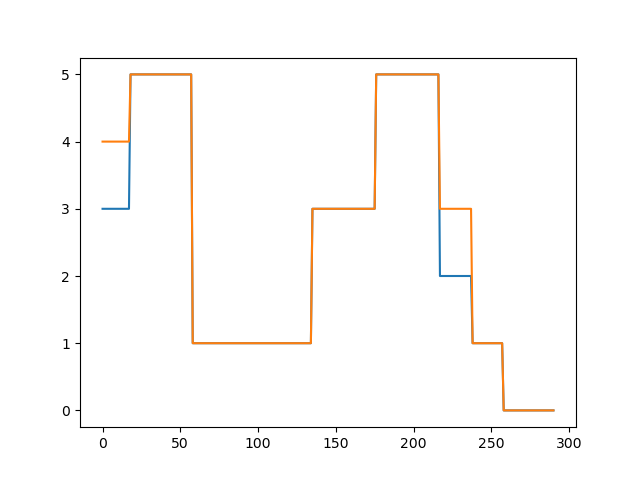
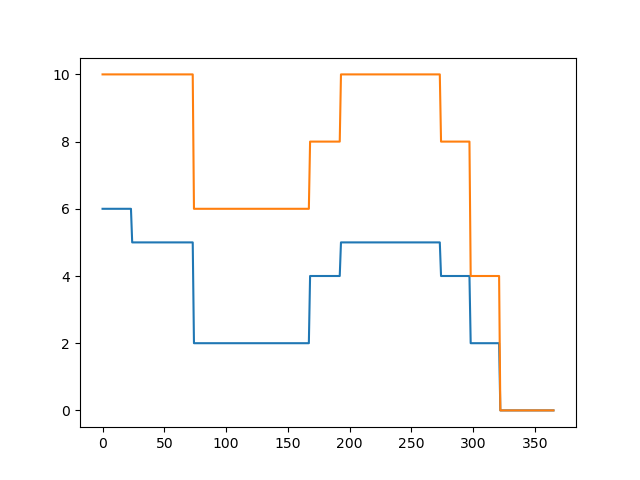
。

diff --git a/assignment2/test.py b/assignment2/test.py
@@ -1,0 +1,125 @@
+from matplotlib import pyplot as plt
+import numpy as np
+from scipy.io import wavfile
+import GetMusicFeatures
+from Feature_Extractor import normalized_intensity, filter_pitch, semi_adjust, analysis_note
+import os
+import simpleaudio as sa
+import wave
+# #
+# #
+# # load data
+path1 = 'Songs/melody_1.wav'
+path2 = 'Songs/melody_2.wav'
+path3 = 'Songs/melody_3.wav'
+sample_rate1, data1 = wavfile.read(path1)
+sample_rate2, data2 = wavfile.read(path2)
+sample_rate3, data3 = wavfile.read(path3)
+print("Sample rate:", sample_rate1)
+print("Number of samples:", data1.shape[0])
+print("Duration (seconds):", data1.shape[0] / sample_rate1)
+
+frIsequence1 = GetMusicFeatures.GetMusicFeatures(data1, sample_rate1)
+frIsequence2 = GetMusicFeatures.GetMusicFeatures(data2, sample_rate2)
+frIsequence3 = GetMusicFeatures.GetMusicFeatures(data3, sample_rate3)
+frame_num1 = frIsequence1.shape[1]
+frame_num2 = frIsequence2.shape[1]
+frame_num3 = frIsequence3.shape[1]
+frequence1 = np.arange(0, frame_num1)
+frequence2 = np.arange(0, frame_num2)
+frequence3 = np.arange(0, frame_num3)
+pitch1 = frIsequence1[0, :]
+
+# test if transposition invariant
+frIsequence1_trans = np.copy(frIsequence1)
+shift = 5
+for i in range(0, frame_num1):
+    # f2 = f1 * (2 ^ (1 / 12)) ^ n
+    frIsequence1_trans[0,i] = frIsequence1[0, i] * 2**(shift/12)
+
+pitch1_trans = frIsequence1_trans[0, :]
+# print(type(pitch1_trans),'what pitch1 trans type')
+# check where zero occurs
+# if np.any(pitch1 == 0):
+#     print("Zero exists in the pitch1.")
+# else:
+#     print("Zero does not exist in pitch1.")
+#
+# if np.any(pitch1_trans == 0):
+#     print("Zero exists in the pitch1_trans.")
+# else:
+#     print("Zero does not exist in pitch1_trans.")
+#
+
+
+
+# Feature
+pitch_log1, intensity_nor1 = normalized_intensity(frIsequence1)
+filter_pitch1, filter_pitch1_log = filter_pitch(frIsequence1)
+voice_frame_num1 = len(filter_pitch1)
+frequence1_temp = np.arange(0, voice_frame_num1)
+
+semi_absolute1, semi_drag1 = semi_adjust(filter_pitch1)
+print(semi_absolute1, '\n', 'absolute tone original')
+print(semi_drag1, '\n', 'trans original')
+
+
+
+pitch_log1_trans, intensity_nor1_trans = normalized_intensity(frIsequence1_trans)
+filter_pitch1_trans, filter_pitch1_trans_log = filter_pitch(frIsequence1_trans)
+semi_absolute1_trans, semi_drag1_trans = semi_adjust(filter_pitch1_trans)
+
+voice_frame_num1_trans = len(filter_pitch1_trans)
+frequence1_temp_trans = np.arange(0, voice_frame_num1_trans)
+
+
+print(semi_absolute1_trans, '\n', 'absolute tone original trans')
+print(semi_drag1_trans, '\n', 'trans original trans')
+
+
+gap1 = np.max(pitch_log1)-np.min(pitch_log1)
+gap1_trans = np.max(pitch_log1_trans)-np.min(pitch_log1_trans)
+print(gap1, gap1_trans,'gap')
+
+
+# plt.figure(figsize=[10,15])
+# plt.plot(frequence1_temp, filter_pitch1_log)
+# plt.plot(frequence1_temp_trans, filter_pitch1_trans_log)
+# plt.xlabel('frame number')
+# plt.ylabel('filter_pitch')
+# plt.title('melody 1 and trans')
+# plt.show()
+#
+# plt.figure(figsize=[10,15])
+# plt.plot(frequence1, pitch_log1)
+# plt.plot(frequence1, pitch_log1_trans)
+# plt.xlabel('frame index')
+# plt.ylabel('pitch_log_scale')
+# plt.title('melody 1')
+# plt.show()
+
+plt.figure(figsize=[10,15])
+plt.plot(frequence1_temp, semi_absolute1)
+plt.plot(frequence1_temp, semi_absolute1_trans)
+plt.xlabel('frame index')
+plt.ylabel('semi-drag')
+plt.title('melody 1 and trans')
+plt.savefig('figures/semitones_drag.png')
+plt.show()
+
+# #
+# octave_C = [32.703, 65.406, 130.813, 261.626, 523.251, 1046.502]  # C1-C6 frequency in HZ, C4->middle C
+# octave_C_log = np.log2(octave_C)
+# x = np.linspace(5.0313135, 6.03135108, 12)
+# print(x)
+# print(octave_C_log)
+#
+# test_note = 2**7.948
+# test_note2 = 2**8
+# print(test_note)
+# octave, semi_tone_relative, semitone_absolute, note = analysis_note(test_note)
+# print(octave, semi_tone_relative, semitone_absolute, note)
+#
+# print(test_note2)
+# octave2, semi_tone_relative2, semitone_absolute2, note2 = analysis_note(test_note2)
+# print(octave2, semi_tone_relative2, semitone_absolute2, note2)

diff --git a/assignment2/Feature_Extractor.py b/assignment2/Feature_Extractor.py
@@ -98,11 +98,14 @@ def analysis_note(test_tone):
     # analysis each note
     octave_C = [32.703, 65.406, 130.813, 261.626, 523.251, 1046.502]  # C1-C6 frequency in HZ, C4->middle C
     octave_C_log = np.log2(octave_C)
+    # octave_C_log = [5, 6, 7, 8, 9, 10]
     semi_tones = []  # (5,12)
     # print(octave_C_log)
 
     for i in range(len(octave_C) - 1):
-        semi_tones.append(np.linspace(octave_C_log[i], octave_C_log[i + 1], 12).tolist())
+        semi_tones.append(np.linspace(octave_C_log[i], octave_C_log[i + 1], 13)[:-1].tolist())
+
+    # semi_tones = [item for sublist in semi_tones for item in sublist]
     # print(semi_tones)
 
     octave = 0
@@ -113,22 +116,28 @@ def analysis_note(test_tone):
 
     # print("The test tone belongs to octave C{}".format(octave))
     semitones_specific = semi_tones[octave - 1]
-
-    # print(semi_tones[octave - 1])
-
+    # print(semitones_specific)
+    # print([2**i for i in semitones_specific])
     test_tone_log = np.log2(test_tone)
     semi_tone_relative = 0
 
     for i, c in enumerate(semitones_specific):
-        if c <= test_tone_log < semitones_specific[i + 1]:      # find the specific interval
-            if test_tone_log - c > semitones_specific[i + 1] - test_tone_log:
-                semi_tone_relative = i + 1
-            else: semi_tone_relative = i                        # approximate to the nearest semitone
-            break
+        if i == len(semitones_specific) - 1:
+            # print(octave_C_log[octave])
+            if test_tone_log - c > octave_C_log[octave] - test_tone_log:
+                octave = octave + 1
+                semi_tone_relative = 0
+        else:
+            if c <= test_tone_log < semitones_specific[i + 1]:  # find the specific interval
+                if test_tone_log - c > semitones_specific[i + 1] - test_tone_log:
+                    semi_tone_relative = i + 1
+                else:
+                    semi_tone_relative = i  # approximate to the nearest semitone
+                break
+
 
     semitone_absolute = octave * 12 + semi_tone_relative
     note = note_name(semi_tone_relative)
-    # use relative semi_tone can address the problem of jump one octave(8)
     return octave, semi_tone_relative, semitone_absolute, note
 
 

diff --git a/assignment2/main.py b/assignment2/main.py
@@ -274,7 +274,7 @@ plt.title('semi_tones')
 plt.savefig('figures/semitones_drag.png')
 plt.show()
 
-# finally feature -> semitones_drag!!!! discrete feature
+# Finally feature -> semitones_drag!!!! discrete feature
 frIsequence1 = GetMusicFeatures.GetMusicFeatures(data1, sample_rate1)
 filter_pitch1, _ = filter_pitch(frIsequence1)
 semi_absolute1 , semi_drag1 = semi_adjust(filter_pitch1)
@@ -283,15 +283,15 @@ print(semi_drag1, '\n', 'trans original')
 
 
 # test if transposition invariant
-frIsequence2_trans = np.copy(frIsequence2)
+frIsequence1_trans = np.copy(frIsequence1)
 shift = 5
 for i in range(0, frame_num2):
     # f2 = f1 * (2 ^ (1 / 12)) ^ n
-    frIsequence2_trans[0,i] = frIsequence2[0,i] * 2**(shift/12)
-filter_pitch2_trans, _ = filter_pitch(frIsequence2_trans)
-semi_trans2_absolute, semi_drag2_trans = semi_adjust(filter_pitch2_trans)
-print(semi_trans2_absolute, '\n', 'absolute tone trans')
-print(semi_drag2_trans, '\n', 'trans semi')
+    frIsequence1_trans[0,i] = frIsequence1[0,i] * 2**(shift/12)
+filter_pitch1_trans, _ = filter_pitch(frIsequence1_trans)
+semi_trans1_absolute, semi_drag1_trans = semi_adjust(filter_pitch1_trans)
+print(semi_trans1_absolute, '\n', 'absolute tone trans')
+print(semi_drag1_trans, '\n', 'trans semi')
 
 # test if volume invariant
 frIsequence1_vol = GetMusicFeatures.GetMusicFeatures(2 * data1, sample_rate1)
@@ -308,9 +308,9 @@ filter_pitch1_octave, _ = filter_pitch(frIsequence1_octave)
 _, semi_drag1_octave = semi_adjust(filter_pitch1_octave)
 
 plt.figure(10)
-plt.plot(frequence2_temp, semi_drag2)
+plt.plot(frequence1_temp, semi_drag1)
 # plt.plot(frequence1_temp, semi_drag1_octave)
-plt.plot(frequence2_temp, semi_drag2_trans)
+plt.plot(frequence1_temp, semi_drag1_trans)
 
 # plt.subplot(3,1,3)
 # plt.plot(frequence1_temp, semi_drag1_vol)
